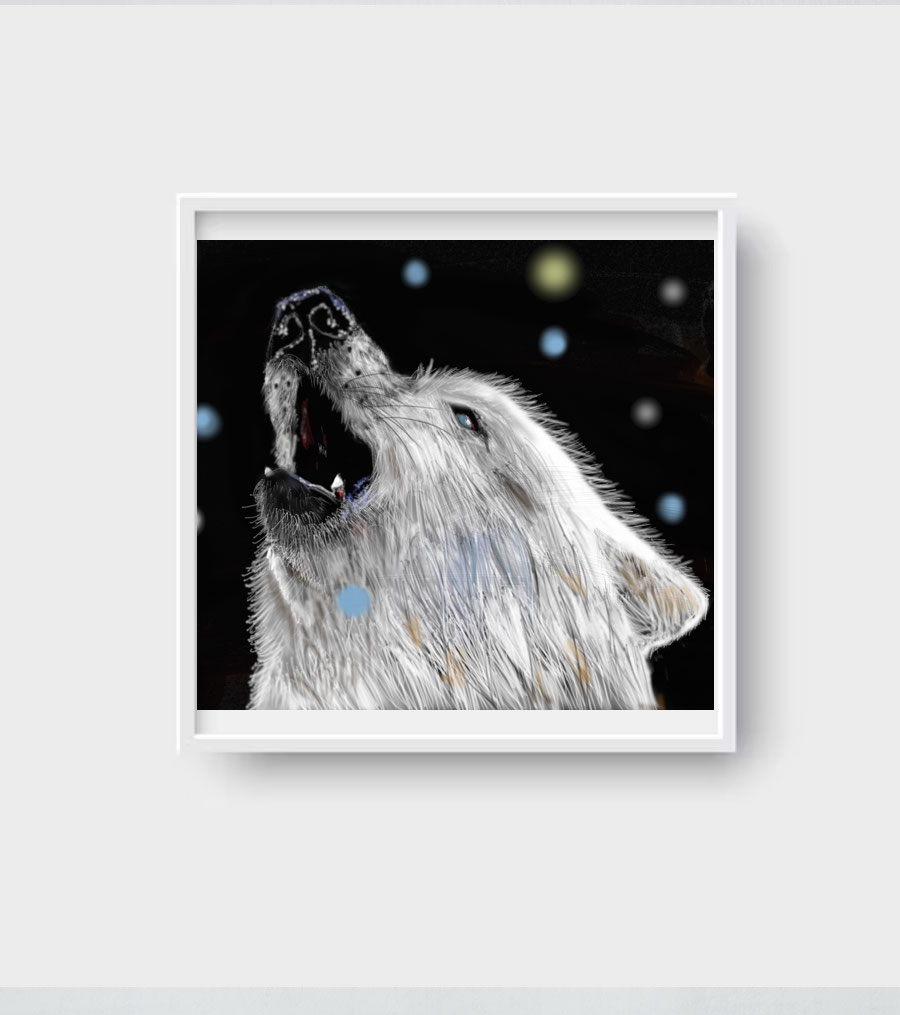
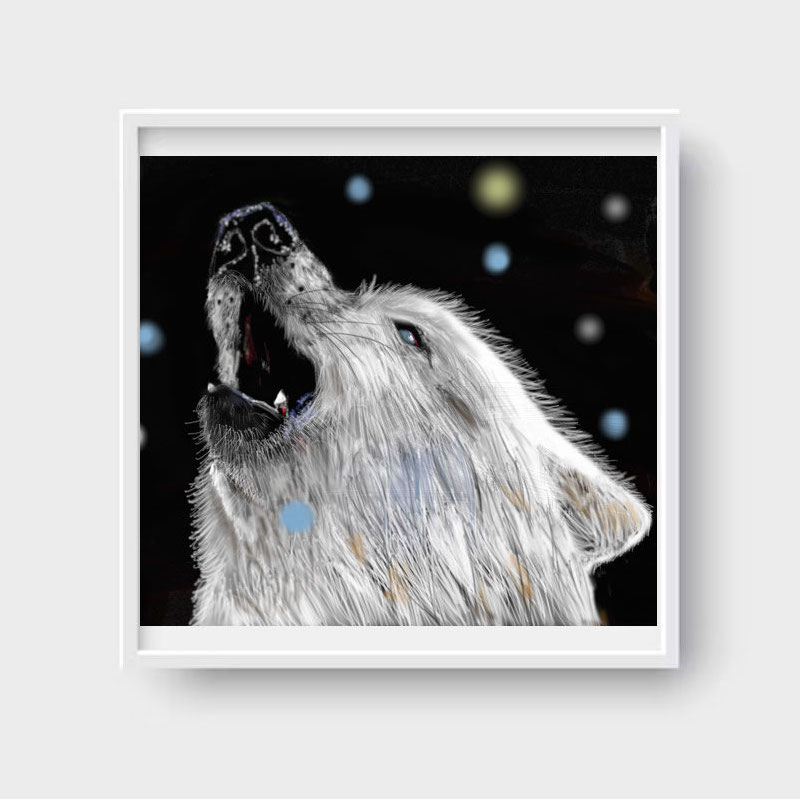
Updates 2024

Changed region(s): [[0.1562, 0.1502, 0.9062, 0.8711], [0.6875, 0.3905, 0.75, 0.4506]]

diff --git a/index.html b/index.html
@@ -120,15 +120,15 @@
               <div class="overlay">
                 <span class="wrap-icon icon-link2"></span>
                 <div class="portfolio-item-content">
-                  <h3>Protection on True Image</h3>
-                  <p>desktop, application</p>
+                  <h3>Acronis trial signup</h3>
+                  <p>desktop, web, application</p>
                 </div>
               </div>
               <img src="images/img_16.png" class="lazyload  img-fluid" alt="Images" />
             </a>
           </div>
 
-          <div class="item web branding col-sm-6 col-md-6 col-lg-4 isotope-mb-2">
+          <!--<div class="item web branding col-sm-6 col-md-6 col-lg-4 isotope-mb-2">
             <a href="https://www.acronis.com/en-sg/solutions/cloud/" class="portfolio-item isotope-item gsap-reveal-img" data-id="3" target="_blank">
               <div class="overlay">
                 <span class="wrap-icon icon-link2"></span>
@@ -139,7 +139,7 @@
               </div>
               <img src="images/img_20.jpg" class="lazyload  img-fluid" alt="Images" />
             </a>
-          </div>
+          </div>-->
 
           <div class="item web branding col-sm-6 col-md-6 col-lg-4 isotope-mb-2">
             <a href="https://apps.apple.com/sg/app/nus-career/id1415587773" class="portfolio-item isotope-item gsap-reveal-img" data-id="3" target="_blank">
@@ -205,7 +205,7 @@
               </div>
               <img src="images/img_7.jpg" class="lazyload  img-fluid" alt="Images" />
             </a>
-          </div> -->
+          </div> 
           <div class="item web branding col-sm-6 col-md-6 col-lg-4 isotope-mb-2">
             <a href="#" class="portfolio-item isotope-item gsap-reveal-img" data-id="1">
               <div class="overlay">
@@ -245,7 +245,7 @@
             </a>
           </div>
 
-         <!-- <div class="item web branding col-sm-6 col-md-6 col-lg-4 isotope-mb-2">
+          <div class="item web branding col-sm-6 col-md-6 col-lg-4 isotope-mb-2">
             <a href="portfolio-single-3.html" class="portfolio-item ajax-load-page isotope-item gsap-reveal-img" data-id="3">
               <div class="overlay">
                 <span class="wrap-icon icon-link2"></span>
@@ -299,9 +299,9 @@
       <div class="container">
         <div class="row justify-content-center mb-3">
           <div class="col-lg-7 mx-auto text-center author-wrap">
-            <img src="images/about_pic.jpg" alt="Image" class="img-fluid rounded-circle mb-3" style="width: 200px">
+            <img src="images/about_pic.png" alt="Image" class="img-fluid rounded-circle mb-3" style="width: 200px">
             <h3 class="text-black h5 font-weight-bold mb-2 gsap-reveal-hero">Ranjini Aravind</h3>
-            <p class="gsap-reveal-hero">UX Designer and Developer</p>
+            <p class="gsap-reveal-hero">Bridging design, technology, and empathy</p>
           </div>
         </div>
 
@@ -309,11 +309,11 @@
           <div class="col-lg-7">
 
 
-            <p class="gsap-reveal-hero">My journey started as a developer in IBM where I worked in a global team building automation tools. After 2 years, I felt an itch to learn how to create user-centric interfaces. So, I applied for Masters in Human-computer interaction and design.</p>
+            <p class="gsap-reveal-hero">I began my career grounded in software engineering, where I learned to break down complex problems with precision.</p>
 
-            <p class="gsap-reveal-hero">After completing my Masters, I returned to Singapore to work in a start-up, JobTech, where I designed and led the frontend development of their flagship website, Talented.</p>
+            <p class="gsap-reveal-hero">Now, I bridge design and engineering to craft solutions that are both functional and visually engaging, always with empathy and inclusivity at the forefront.</p>
 
-            <p class="gsap-reveal-hero">Since I wanted to dive deeper into design, I took up the role of  Senior UX Designer at Acronis. In the past year, I've led the design efforts for Acronis Cyber Protect Home Office, a cybersecurity desktop app, with over 5.5 million users. </p>
+            <p class="gsap-reveal-hero">I love working with open-minded people and creating things that improve everyday experiences.</p>
 
 
             <p class="gsap-reveal-hero text-center"><a href="http://sg.linkedin.com/in/ranjinia/" target="_blank" class="btn btn-outline-black">Find out more</a></p>    
@@ -404,6 +404,49 @@
     </div>
 
 
+    <div class="portfolio-wrapper">
+        <div id="posts" class="row">
+          <div class="item web branding col-sm-6 col-md-6 col-lg-4 isotope-mb-2">
+            <div class="portfolio-item isotope-item gsap-reveal-img" data-id="3">
+              <div class="overlay">
+                <span class="wrap-icon"></span>
+                <div class="portfolio-item-content">
+                  <h3>Wolf</h3>
+                  <p>digital art</p>
+                </div>
+              </div>
+              <img src="images/img_17.jpg" class="lazyload  img-fluid" alt="Images" />
+            </div>
+          </div>
+          <div class="item web branding col-sm-6 col-md-6 col-lg-4 isotope-mb-2">
+            <div class="portfolio-item isotope-item gsap-reveal-img" data-id="1">
+              <div class="overlay">
+                <span class="wrap-icon"></span>
+                <div class="portfolio-item-content">
+                  <h3>Salt Air</h3>
+                  <p>digital art</p>
+                </div>
+              </div>
+              <img src="images/img_21.png" class="lazyload  img-fluid" alt="Images" />
+            </div>
+          </div>
+          <div class="item web branding col-sm-6 col-md-6 col-lg-4 isotope-mb-2">
+            <div class="portfolio-item isotope-item gsap-reveal-img" data-id="3">
+              <div class="overlay">
+                <span class="wrap-icon"></span>
+                <div class="portfolio-item-content">
+                  <h3>Eyes</h3>
+                  <p>digital art</p>
+                </div>
+              </div>
+              <img src="images/img_18.jpg" class="lazyload  img-fluid" alt="Images" />
+            </div>
+          </div>
+
+
+        </div>
+    </div>
+
     <div class="untree_co-section pb-0" id="skills-section">
       <div class="container">
         <div class="row mb-4">
@@ -453,6 +496,7 @@
         </div>
       </div>
     </div>
+
 
     <!--<div class="untree_co-section testimonial-wrap">
       <div class="container">
